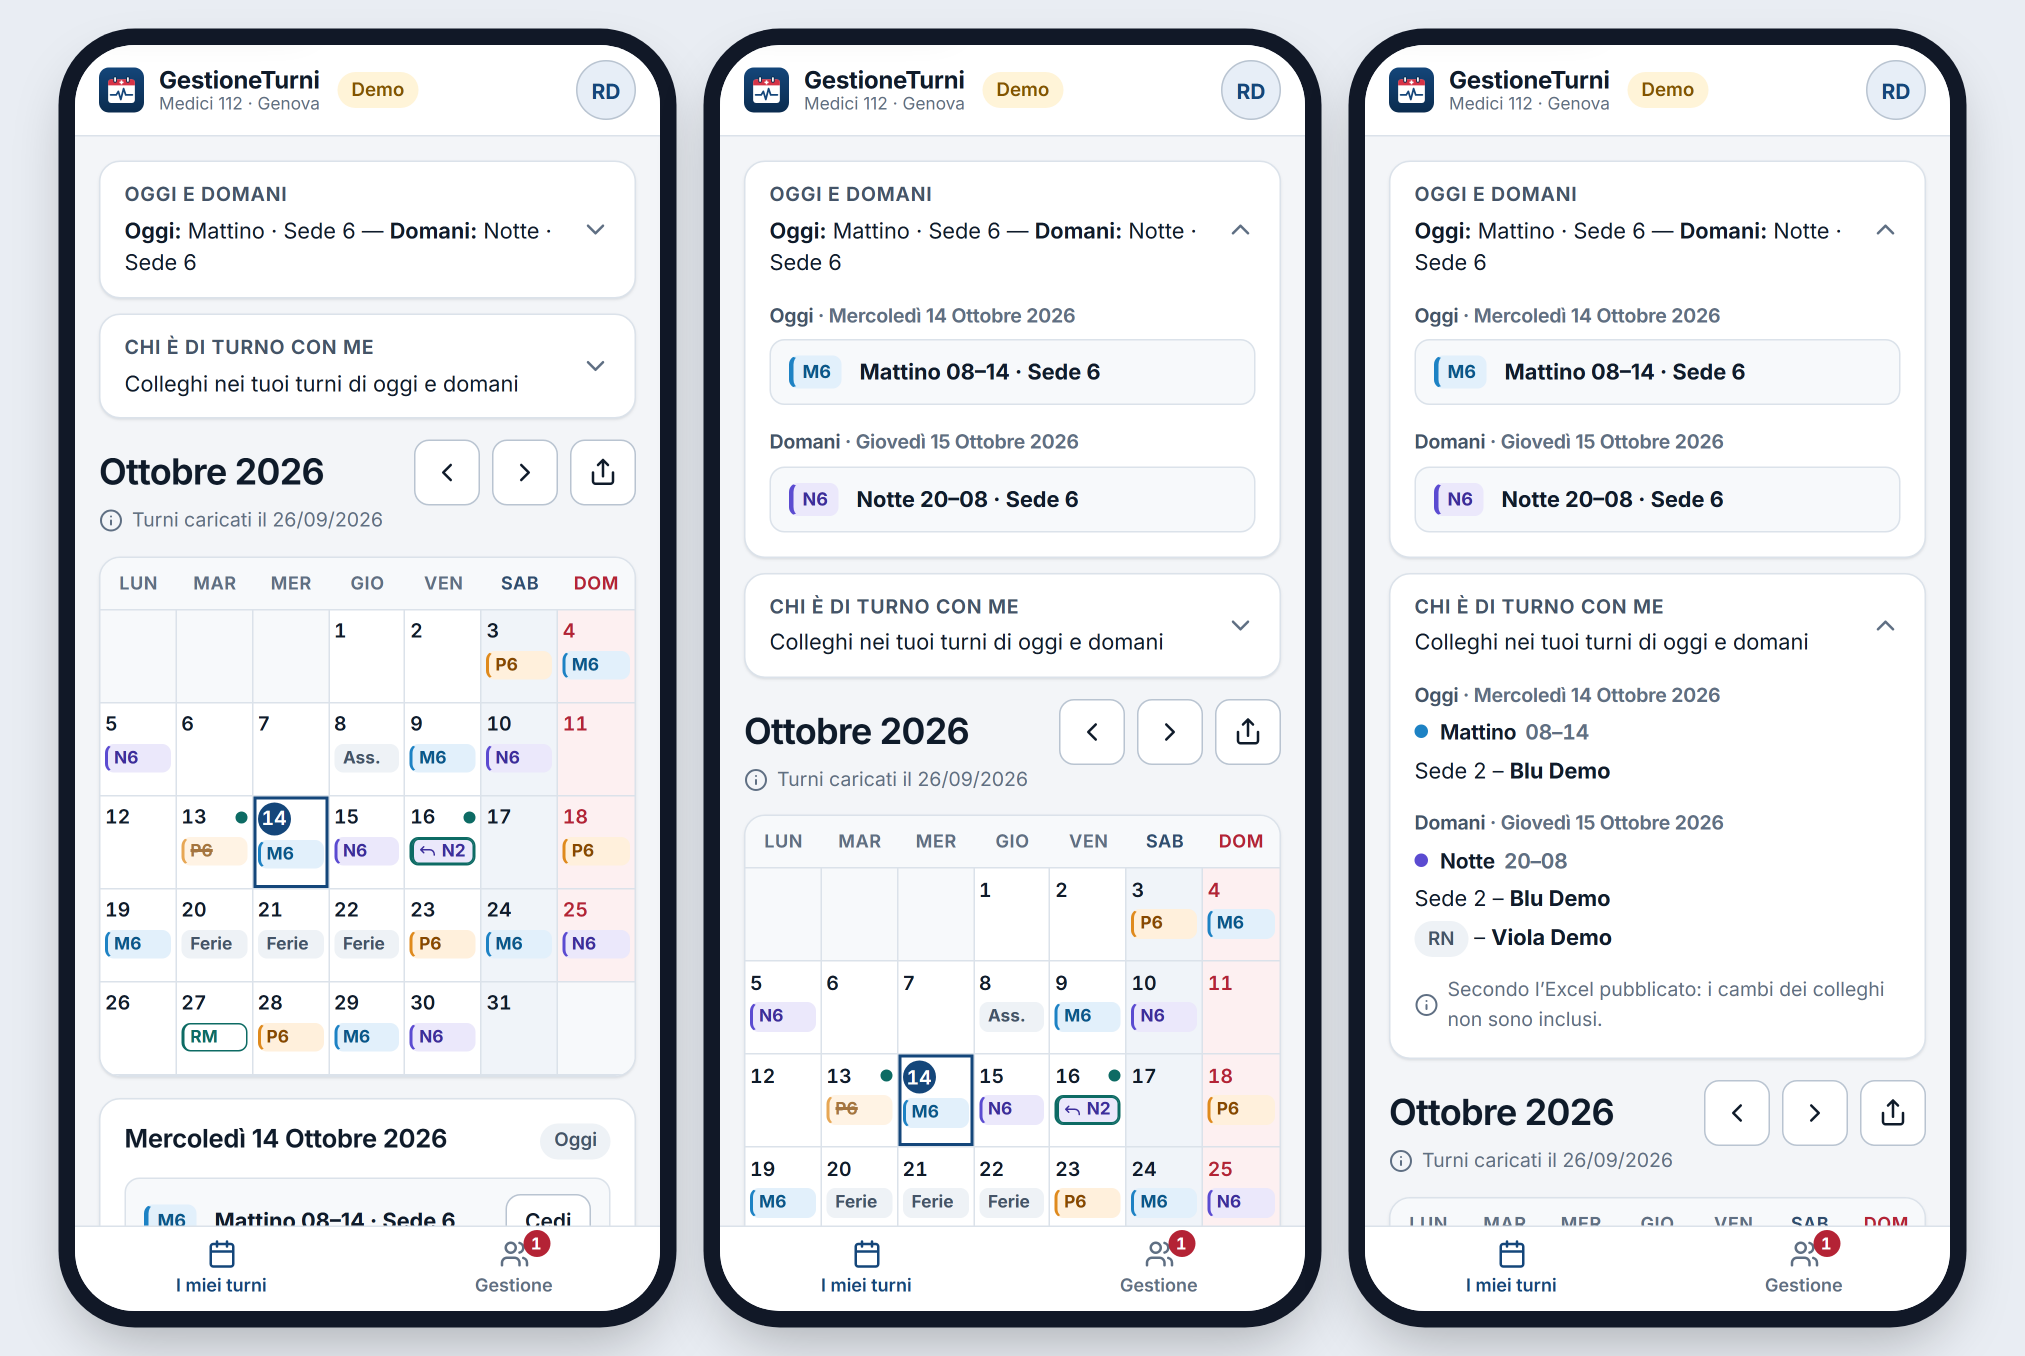
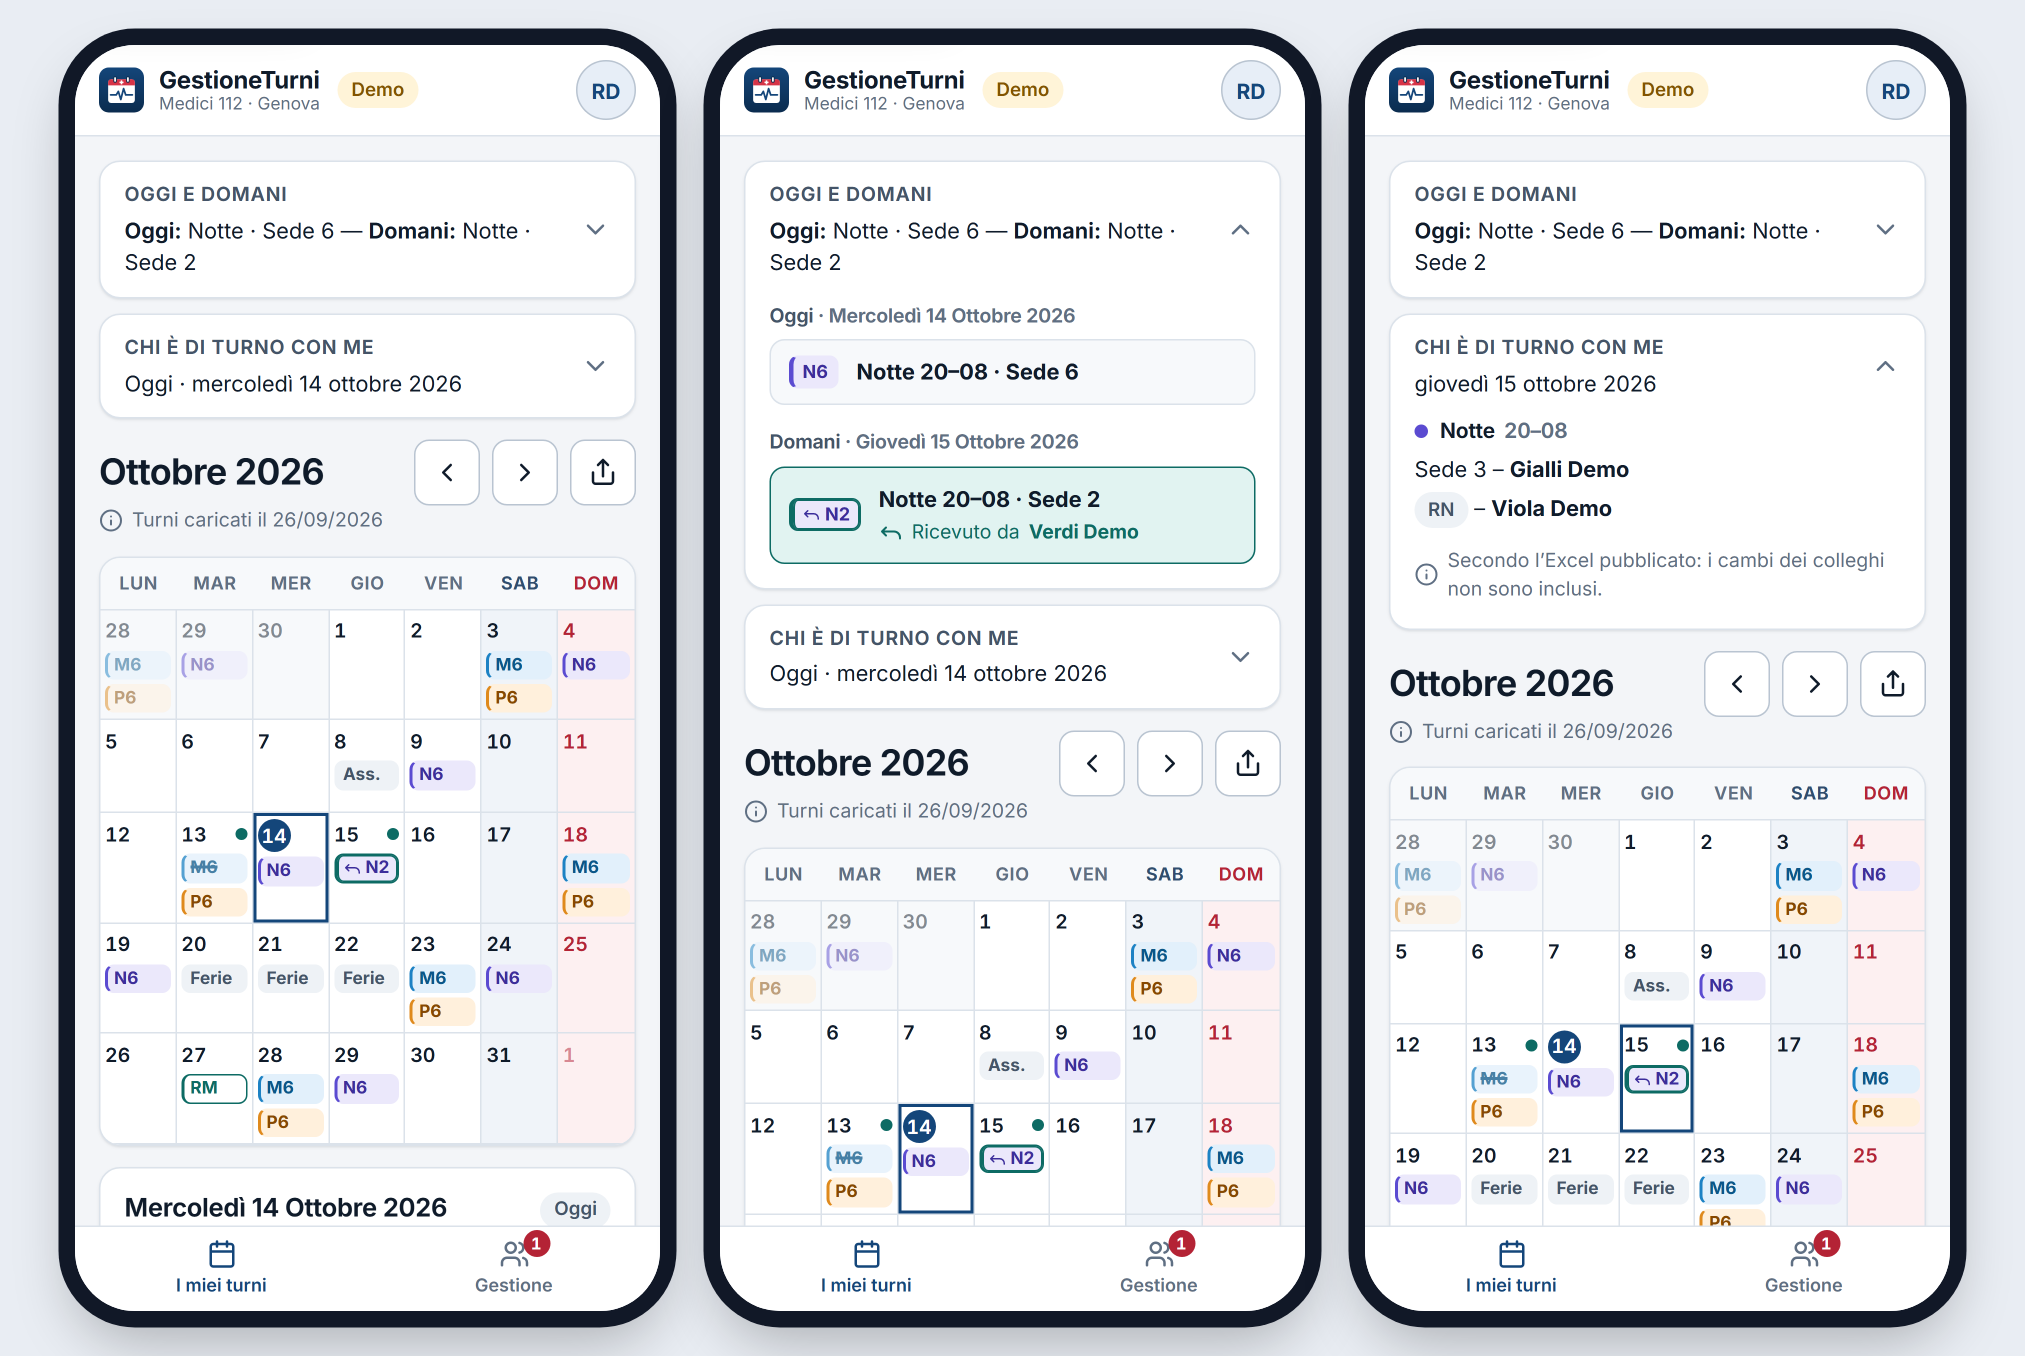
Fine sessione: card Chi è di turno con me sul giorno selezionato, screenshot README aggiornati, stato e decisioni

diff --git a/app/src/pagine/medico/CardOggiDomani.tsx b/app/src/pagine/medico/CardOggiDomani.tsx
@@ -1,6 +1,6 @@
 // Card in cima all'area medico: "Oggi e domani" (miei turni, cambi applicati) e
 // "Chi è di turno con me" (colleghi dal quadro del mese, solo account principali).
-import { useEffect, useId, useMemo, useState, type ReactNode } from 'react';
+import { useEffect, useId, useMemo, useRef, useState, type ReactNode } from 'react';
 import { chiConMe, type GruppoChiConMe } from '../../domain/quadro';
 import { scomponi, type DataISO } from '../../domain/date';
 import type { RisultatoProiezione } from '../../domain/proiezione';
@@ -150,29 +150,48 @@ export function CardOggiDomani({ oggi, mesi, cambi, proiezione, sedi, nomi }: Pr
   );
 }
 
-type StatoQuadri = { stato: 'idle' | 'caricamento' } | { stato: 'errore' } | { stato: 'pronto'; quadri: Record<string, QuadroMese | null> };
+type StatoQuadro = { stato: 'idle' | 'caricamento' | 'errore' } | { stato: 'pronto'; quadro: QuadroMese | null };
 
-export function CardChiConMe({ oggi, mesi, cambi, proiezione, sedi, nomi, medicoId }: PropsComuni & { medicoId: string }) {
+interface PropsChiConMe {
+  oggi: DataISO;
+  /** Giorno selezionato nel calendario (cambi applicati). */
+  giorno: GiornoVista;
+  /** Il mese del giorno ha turni pubblicati (non solo proiezione). */
+  pubblicato: boolean;
+  sedi: Sedi;
+  nomi: Map<string, string>;
+  medicoId: string;
+}
+
+export function CardChiConMe({ oggi, giorno, pubblicato, sedi, nomi, medicoId }: PropsChiConMe) {
   const servizi = useServizi();
   const [aperto, setAperto] = useState(false);
-  const [caricati, setCaricati] = useState<StatoQuadri>({ stato: 'idle' });
+  const [stato, setStato] = useState<StatoQuadro>({ stato: 'idle' });
   const [tentativo, setTentativo] = useState(0);
-  const giorni = useMemo(() => giorniOggiDomani(oggi, mesi, cambi, proiezione), [oggi, mesi, cambi, proiezione]);
-  const chiavi = useMemo(() => [...new Set(giorni.map((g) => g.data.slice(0, 7)))], [giorni]);
+  // Cache in memoria: una lettura per mese per sessione.
+  const cache = useRef(new Map<string, QuadroMese | null>());
+  const chiave = giorno.data.slice(0, 7);
+  const codici = giorno.voci.filter((v) => v.stato !== 'ceduto').map((v) => v.codice);
 
-  // Il quadro si legge solo alla prima apertura (risparmio di letture).
   useEffect(() => {
-    if (!aperto || caricati.stato === 'pronto') return;
+    if (!aperto || !pubblicato) return;
+    if (cache.current.has(chiave)) {
+      setStato({ stato: 'pronto', quadro: cache.current.get(chiave) ?? null });
+      return;
+    }
     let attivo = true;
-    setCaricati({ stato: 'caricamento' });
-    Promise.all(chiavi.map(async (k) => [k, await servizi.quadro(k)] as const))
-      .then((r) => attivo && setCaricati({ stato: 'pronto', quadri: Object.fromEntries(r) }))
-      .catch(() => attivo && setCaricati({ stato: 'errore' }));
+    setStato({ stato: 'caricamento' });
+    servizi
+      .quadro(chiave)
+      .then((q) => {
+        cache.current.set(chiave, q);
+        if (attivo) setStato({ stato: 'pronto', quadro: q });
+      })
+      .catch(() => attivo && setStato({ stato: 'errore' }));
     return () => {
       attivo = false;
     };
-    // eslint-disable-next-line react-hooks/exhaustive-deps
-  }, [aperto, servizi, chiavi, tentativo]);
+  }, [aperto, pubblicato, chiave, servizi, tentativo]);
 
   const nome = (id: string) => nomi.get(id) ?? 'collega non in elenco';
   const gruppo = (g: GruppoChiConMe) => (
@@ -200,24 +219,11 @@ export function CardChiConMe({ oggi, mesi, cambi, proiezione, sedi, nomi, medico
     </div>
   );
 
-  const corpoGiorno = (g: GiornoCard) => {
-    if (!g.pubblicato) return <p className="testo-tenue">Turni non ancora pubblicati.</p>;
-    if (caricati.stato !== 'pronto') return null;
-    const quadro = caricati.quadri[g.data.slice(0, 7)];
-    if (!quadro) return <p className="testo-tenue">Disponibile dal prossimo caricamento dei turni.</p>;
-    const gruppi = chiConMe(quadro.giorni[String(Number(g.data.slice(8)))], medicoId, g.codici);
-    if (gruppi.length === 0) return <p className="testo-tenue">Sei libero.</p>;
-    return gruppi.map(gruppo);
-  };
-
-  return (
-    <CardComprimibile
-      titolo="Chi è di turno con me"
-      sottotitolo={<span className="card-riassunto">Colleghi nei tuoi turni di oggi e domani</span>}
-      aperto={aperto}
-      onToggle={() => setAperto((a) => !a)}
-    >
-      {caricati.stato === 'errore' ? (
+  const corpo = () => {
+    const nonDisp = <p className="testo-tenue">Turni dei colleghi non ancora pubblicati per questo mese</p>;
+    if (!pubblicato) return nonDisp;
+    if (stato.stato === 'errore') {
+      return (
         <div className="avviso">
           <Icona nome="info" />
           <div>
@@ -227,7 +233,7 @@ export function CardChiConMe({ oggi, mesi, cambi, proiezione, sedi, nomi, medico
               className="btn btn-secondario btn-piccolo"
               style={{ marginTop: 8 }}
               onClick={() => {
-                setCaricati({ stato: 'idle' });
+                setStato({ stato: 'idle' });
                 setTentativo((t) => t + 1);
               }}
             >
@@ -235,23 +241,34 @@ export function CardChiConMe({ oggi, mesi, cambi, proiezione, sedi, nomi, medico
             </button>
           </div>
         </div>
-      ) : caricati.stato !== 'pronto' ? (
-        <div className="scheletro" style={{ height: 64 }} aria-busy="true" aria-label="Caricamento" />
-      ) : (
-        <>
-          {giorni.map((g) => (
-            <div key={g.data} className="oggi-domani-giorno">
-              <h3 className="sottotitolo">
-                {g.etichetta} <span className="testo-tenue">· {dataEstesa(g.data)}</span>
-              </h3>
-              {corpoGiorno(g)}
-            </div>
-          ))}
-          <p className="nota">
-            <Icona nome="info" piccola /> Secondo l’Excel pubblicato: i cambi dei colleghi non sono inclusi.
-          </p>
-        </>
-      )}
+      );
+    }
+    if (stato.stato !== 'pronto') return <div className="scheletro" style={{ height: 64 }} aria-busy="true" aria-label="Caricamento" />;
+    if (!stato.quadro) return nonDisp;
+    const gruppi = chiConMe(stato.quadro.giorni[String(Number(giorno.data.slice(8)))], medicoId, codici);
+    return (
+      <>
+        {gruppi.length === 0 ? <p className="testo-tenue">Sei libero.</p> : gruppi.map(gruppo)}
+        <p className="nota">
+          <Icona nome="info" piccola /> Secondo l’Excel pubblicato: i cambi dei colleghi non sono inclusi.
+        </p>
+      </>
+    );
+  };
+
+  return (
+    <CardComprimibile
+      titolo="Chi è di turno con me"
+      sottotitolo={
+        <span className="card-riassunto">
+          {giorno.data === oggi ? 'Oggi · ' : ''}
+          {dataEstesa(giorno.data)}
+        </span>
+      }
+      aperto={aperto}
+      onToggle={() => setAperto((a) => !a)}
+    >
+      {corpo()}
     </CardComprimibile>
   );
 }

diff --git a/app/src/pagine/medico/AreaMedico.tsx b/app/src/pagine/medico/AreaMedico.tsx
@@ -153,6 +153,15 @@ function VistaMedico({
   const giornoSel =
     vista.giorni.find((g) => g.data === selezionato) ?? vista.giorni.find((g) => g.oggi) ?? vista.giorni[0]!;
 
+  // Per la card colleghi: giorno selezionato esplicitamente; senza selezione (avvio, cambio mese) è oggi.
+  const selEsplicito = selezionato ? vista.giorni.find((g) => g.data === selezionato) : undefined;
+  const vistaOggi = useMemo(
+    () => (selEsplicito ? null : costruisciMese(meseOggi, dati.mesi, dati.cambi, proiezione, oggi, false)),
+    [selEsplicito, meseOggi, dati.mesi, dati.cambi, proiezione, oggi],
+  );
+  const giornoCard = selEsplicito ?? vistaOggi!.giorni[scomponi(oggi).giorno - 1]!;
+  const pubblicatoCard = selEsplicito ? vista.tipo === 'reale' : vistaOggi!.tipo === 'reale';
+
   const vaiA = (am: AnnoMese) => {
     setSelezionato(null);
     naviga(`${base}/${chiaveMese(am)}`);
@@ -231,7 +240,7 @@ function VistaMedico({
         <div className="card-riepilogo-alto">
           <CardOggiDomani oggi={oggi} mesi={dati.mesi} cambi={dati.cambi} proiezione={proiezione} sedi={dati.sedi} nomi={nomi} />
           {principale && (
-            <CardChiConMe oggi={oggi} mesi={dati.mesi} cambi={dati.cambi} proiezione={proiezione} sedi={dati.sedi} nomi={nomi} medicoId={medicoId} />
+            <CardChiConMe oggi={oggi} giorno={giornoCard} pubblicato={pubblicatoCard} sedi={dati.sedi} nomi={nomi} medicoId={medicoId} />
           )}
         </div>
       )}

diff --git a/docs/STATO.md b/docs/STATO.md
@@ -4,34 +4,36 @@
 
 ## Fatto
 - Requisiti, modello dati, decisioni (`docs/`).
-- **Logica turni** `app/src/domain/`: parser Excel, codici e sedi, anagrafica con alias, ore (solo M/P/N, notte 4+8), cambi, festività, weekend, proiezione MP-N, reperibilità, avvisi di import. **89 test**.
-- **Regole Firestore** `firebase/`: ruoli, approvazione, principale unico, `mesiPubblicati`, `caricatoIl`, `turni/{id}/meta/ciclo` leggibile dal medico. **95 test** (emulatore, Java 21).
-- **Interfaccia** completa e online:
-  - medico: calendario in cima su mobile, dettaglio giorno, weekend raggruppati e colorati, ore, reperibilità, cambi, data di caricamento, **condivisione del mese come immagine PNG** (titolo + griglia, cambi applicati);
-  - gestione: account, medici (clic → **calendario del medico in sola lettura**, senza cambi), sedi, **Carica Excel** con mese di partenza (default mese successivo), sostituzione completa del mese, card **Mesi pubblicati**;
-  - pagina pubblica con "Accesso per i familiari" (account in sola lettura);
-  - demo `/demo` con dati inventati, solo in sviluppo (`.claude/launch.json` → `app`).
-- **Produzione**: admin creato (`admins/{uid}`, l'admin non è un medico); primo Excel reale importato dall'utente.
-- **Login PWA su iPhone**: `authDomain` = dominio del sito su Firebase Hosting; redirect URI `https://shifts-be876.web.app/__/auth/handler` aggiunto in Google Cloud.
-- **README** con screenshot della demo (telefono e computer) in `docs/screenshot/`.
+- **Logica turni** `app/src/domain/`: parser Excel, codici e sedi, anagrafica con alias, ore (solo M/P/N, notte 4+8), cambi, festività, weekend, **proiezione ciclo MP-N-smonto-riposo-riposo** (ancora = giorno MP, correggibile a mano), reperibilità, avvisi di import, quadro mensile e "chi è con me", ultimo accesso. **108 test**.
+- **Regole Firestore** `firebase/`: ruoli, approvazione, principale unico, `mesiPubblicati`, `caricatoIl`, `turni/{id}/meta/ciclo`, `users.ultimoAccesso` (solo proprio, = ora server), `quadro/{aaaa-mm}` (solo account principali e staff). **102 test** (emulatore, Java 21).
+- **Interfaccia** online:
+  - medico: card in cima **Oggi e domani** e **Chi è di turno con me** (collassate; la seconda segue il giorno selezionato, senza selezione oggi; solo principali); calendario con **giorni dei mesi adiacenti** attenuati e cliccabili; dettaglio giorno, weekend, ore, reperibilità, cambi, condivisione PNG;
+  - gestione: account e medici con **ultimo accesso**, etichette **Abilitato/Disabilitato**, calendario del medico in sola lettura, sedi, Carica Excel (scrive anche il quadro del mese), Mesi pubblicati;
+  - pagina pubblica, demo `/demo` (solo sviluppo).
+- **Produzione**: admin creato, primo Excel reale importato, login PWA iPhone funzionante.
+- `/fine-sessione` dal cloud (web/cellulare): branch + PR invece del push su `main`.
+- README con screenshot demo aggiornati (`mobile-oggi.png`, `desktop-medici.png`).
 
 ## Prossimi passi
-1. Verificare sull'iPhone: login dalla PWA installata e condivisione immagine su WhatsApp.
-2. Verificare che la card "Mesi pubblicati" mostri i mesi importati (se vuota, ripetere l'import: è sicuro).
-3. Approvare 1–2 medici e raccogliere riscontri.
+1. **Pubblicare le regole** (`firebase deploy --only firestore`, lo fa l'utente: il deploy da Claude è bloccato). Prima di questo l'import fallisce (scrive `quadro/`).
+2. **Reimportare l'Excel** per creare il quadro e attivare "Chi è di turno con me".
+3. Controllare i medici con ancora "Manuale": la data ora vale come giorno MP.
+4. Verificare su iPhone (dopo riapertura PWA): proiezione MP-N, card, `ultimoAccesso` in `users/`.
+5. Approvare 1–2 medici e raccogliere riscontri. Idee in coda: export .ics, offline, riepilogo annuale, differenze prima di ripubblicare.
 
 ## Problemi aperti
 - Significato di `C` (MC/PC/NC), `at/att`, `RE`, `E/e/Ex/EU/A/G/SC/CD/REC`: **tbd**. `RNatt` ecc.: 0 ore, tbd.
 - Nomi reali delle sedi: per ora `Sede 1…7`.
-- `giornoPrecedente` (colonna B) non salvato: riserva per le notti a cavallo di mese non usata.
-- Mesi oltre 450 operazioni: import in più batch, non atomico (documentato).
-- Authentication: c'è un secondo account (`UAgEsiNl…`) da verificare/eliminare.
-- Lint: 4 avvisi `set-state-in-effect`, non bloccanti. Bundle ~290 kB gzip.
-- Notifiche: solo badge in app (piano gratuito).
+- `giornoPrecedente` (colonna B) non salvato.
+- Mesi oltre 450 operazioni: import in più batch, non atomico.
+- Authentication: secondo account (`UAgEsiNl…`) da verificare/eliminare.
+- "Chi è con me" usa l'Excel: i cambi dei colleghi non compaiono. Chi la legge vede la turnistica completa del mese.
+- Card con app aperta oltre mezzanotte: dati del giorno prima fino al ricaricamento.
+- Lint: 4 avvisi `set-state-in-effect`. Bundle ~290 kB gzip. Notifiche: solo badge in app.
 
 ## Note tecniche
-- Test regole: Java 21 nel PATH (`JAVA_HOME` su `jdk-21`; quello di sistema è Java 11).
-- Deploy hosting: automatico con GitHub Action a ogni push su `main` (test + build + deploy; segreti `VITE_FIREBASE_*` e `FIREBASE_SERVICE_ACCOUNT_SHIFTS_BE876`). Se cambia `.env`, aggiornare anche i segreti.
-- Deploy regole: manuale, `firebase deploy --only firestore` dalla radice dopo i test sull'emulatore.
-- Screenshot README: script CDP in Chrome headless sulla demo locale; solo dati inventati.
-- Scrittura/lettura del Firestore di produzione da CLI bloccata dai permessi: le operazioni in console le fa l'utente.
+- Test regole: Java 21 (`JAVA_HOME` su `jdk-21`; quello di sistema è Java 11).
+- Deploy hosting: automatico con GitHub Action su push in `main`. Se cambia `.env`, aggiornare i segreti.
+- Deploy regole: manuale, `firebase deploy --only firestore` dalla radice, dopo i test.
+- Screenshot README: script CDP/Chrome headless sulla demo locale (nella scratchpad, non nel repo); solo dati inventati.
+- Firestore di produzione da CLI bloccato: le operazioni in console le fa l'utente.

diff --git a/README.md b/README.md
@@ -20,7 +20,7 @@
 *Tema scuro automatico · caricamento dell'Excel con mese di partenza e mesi già pubblicati · calendario di un medico visto dall'amministratore (senza i cambi, che sono privati).*
 
 ![Card Oggi e domani e Chi è di turno con me su telefono](docs/screenshot/mobile-oggi.png)
-*In cima all'area medico: card chiuse con il riassunto · «Oggi e domani» aperta · «Chi è di turno con me» con colleghi e reperibili.*
+*In cima all'area medico: card chiuse con il riassunto · «Oggi e domani» aperta · «Chi è di turno con me» sul giorno selezionato nel calendario, con colleghi e reperibili.*
 
 ### Su computer
 ![Pagina pubblica su desktop](docs/screenshot/desktop-pubblica.png)
@@ -38,7 +38,7 @@
 
 ### Per i medici
 - **Oggi e domani**: card comprimibile in cima con il proprio turno (sede e orario) di oggi e di domani, cambi già applicati.
-- **Chi è di turno con me** (solo account principali): i colleghi della stessa fascia nelle altre sedi e i reperibili (RM, RP, RN, RG) di oggi e di domani, secondo l'Excel pubblicato. I cambi dei colleghi non sono inclusi; vengono mostrati solo nome e sede, nei soli giorni in cui il medico stesso lavora.
+- **Chi è di turno con me** (solo account principali): i colleghi della stessa fascia nelle altre sedi e i reperibili (RM, RP, RN, RG) del giorno selezionato nel calendario (all'avvio oggi), secondo l'Excel pubblicato. I cambi dei colleghi non sono inclusi; vengono mostrati solo nome e sede, nei soli giorni in cui il medico stesso lavora.
 - **Calendario mensile** dei propri turni — Mattino (08–14), Pomeriggio (14–20), Notte (20–08) — con la **sede** di lavoro.
 - **Weekend e festività** evidenziati con codice colore: festività nazionali e **San Giovanni Battista** (24 giugno, patrono di Genova).
 - **Card weekend liberi**: sabato e domenica raggruppati per weekend e colorati (libero, parziale, lavorato), più lo stato delle festività del mese.

diff --git a/docs/DECISIONI.md b/docs/DECISIONI.md
@@ -53,3 +53,5 @@
 | 2026-10-11 | `users.ultimoAccesso` scritto dal client all'apertura (max 1/giorno), invece del lastSignIn di Auth | Il login resta ricordato e lastSignIn si legge solo con Admin SDK (niente Functions) |
 | 2026-10-11 | Etichette medico "Abilitato/Disabilitato" (campo dati resta `attivo`) | "Attivo" si confondeva con l'uso dell'app |
 | 2026-10-11 | `quadro/{aaaa-mm}` scritto all'import, leggibile solo da account principali e staff | Serve a "Chi è di turno con me"; i familiari non vedono i turni dei colleghi; niente cambi dei colleghi (privati) |
+| 2026-10-11 | Calendario con i giorni dei mesi adiacenti (attenuati, con turni o proiezione); conteggi solo sul mese | Vedere la settimana completa a inizio e fine mese |
+| 2026-10-11 | "Chi è di turno con me" segue il giorno selezionato (senza selezione: oggi); card in cima | Scelta dell'utente; quadro letto per mese, una volta per sessione |
